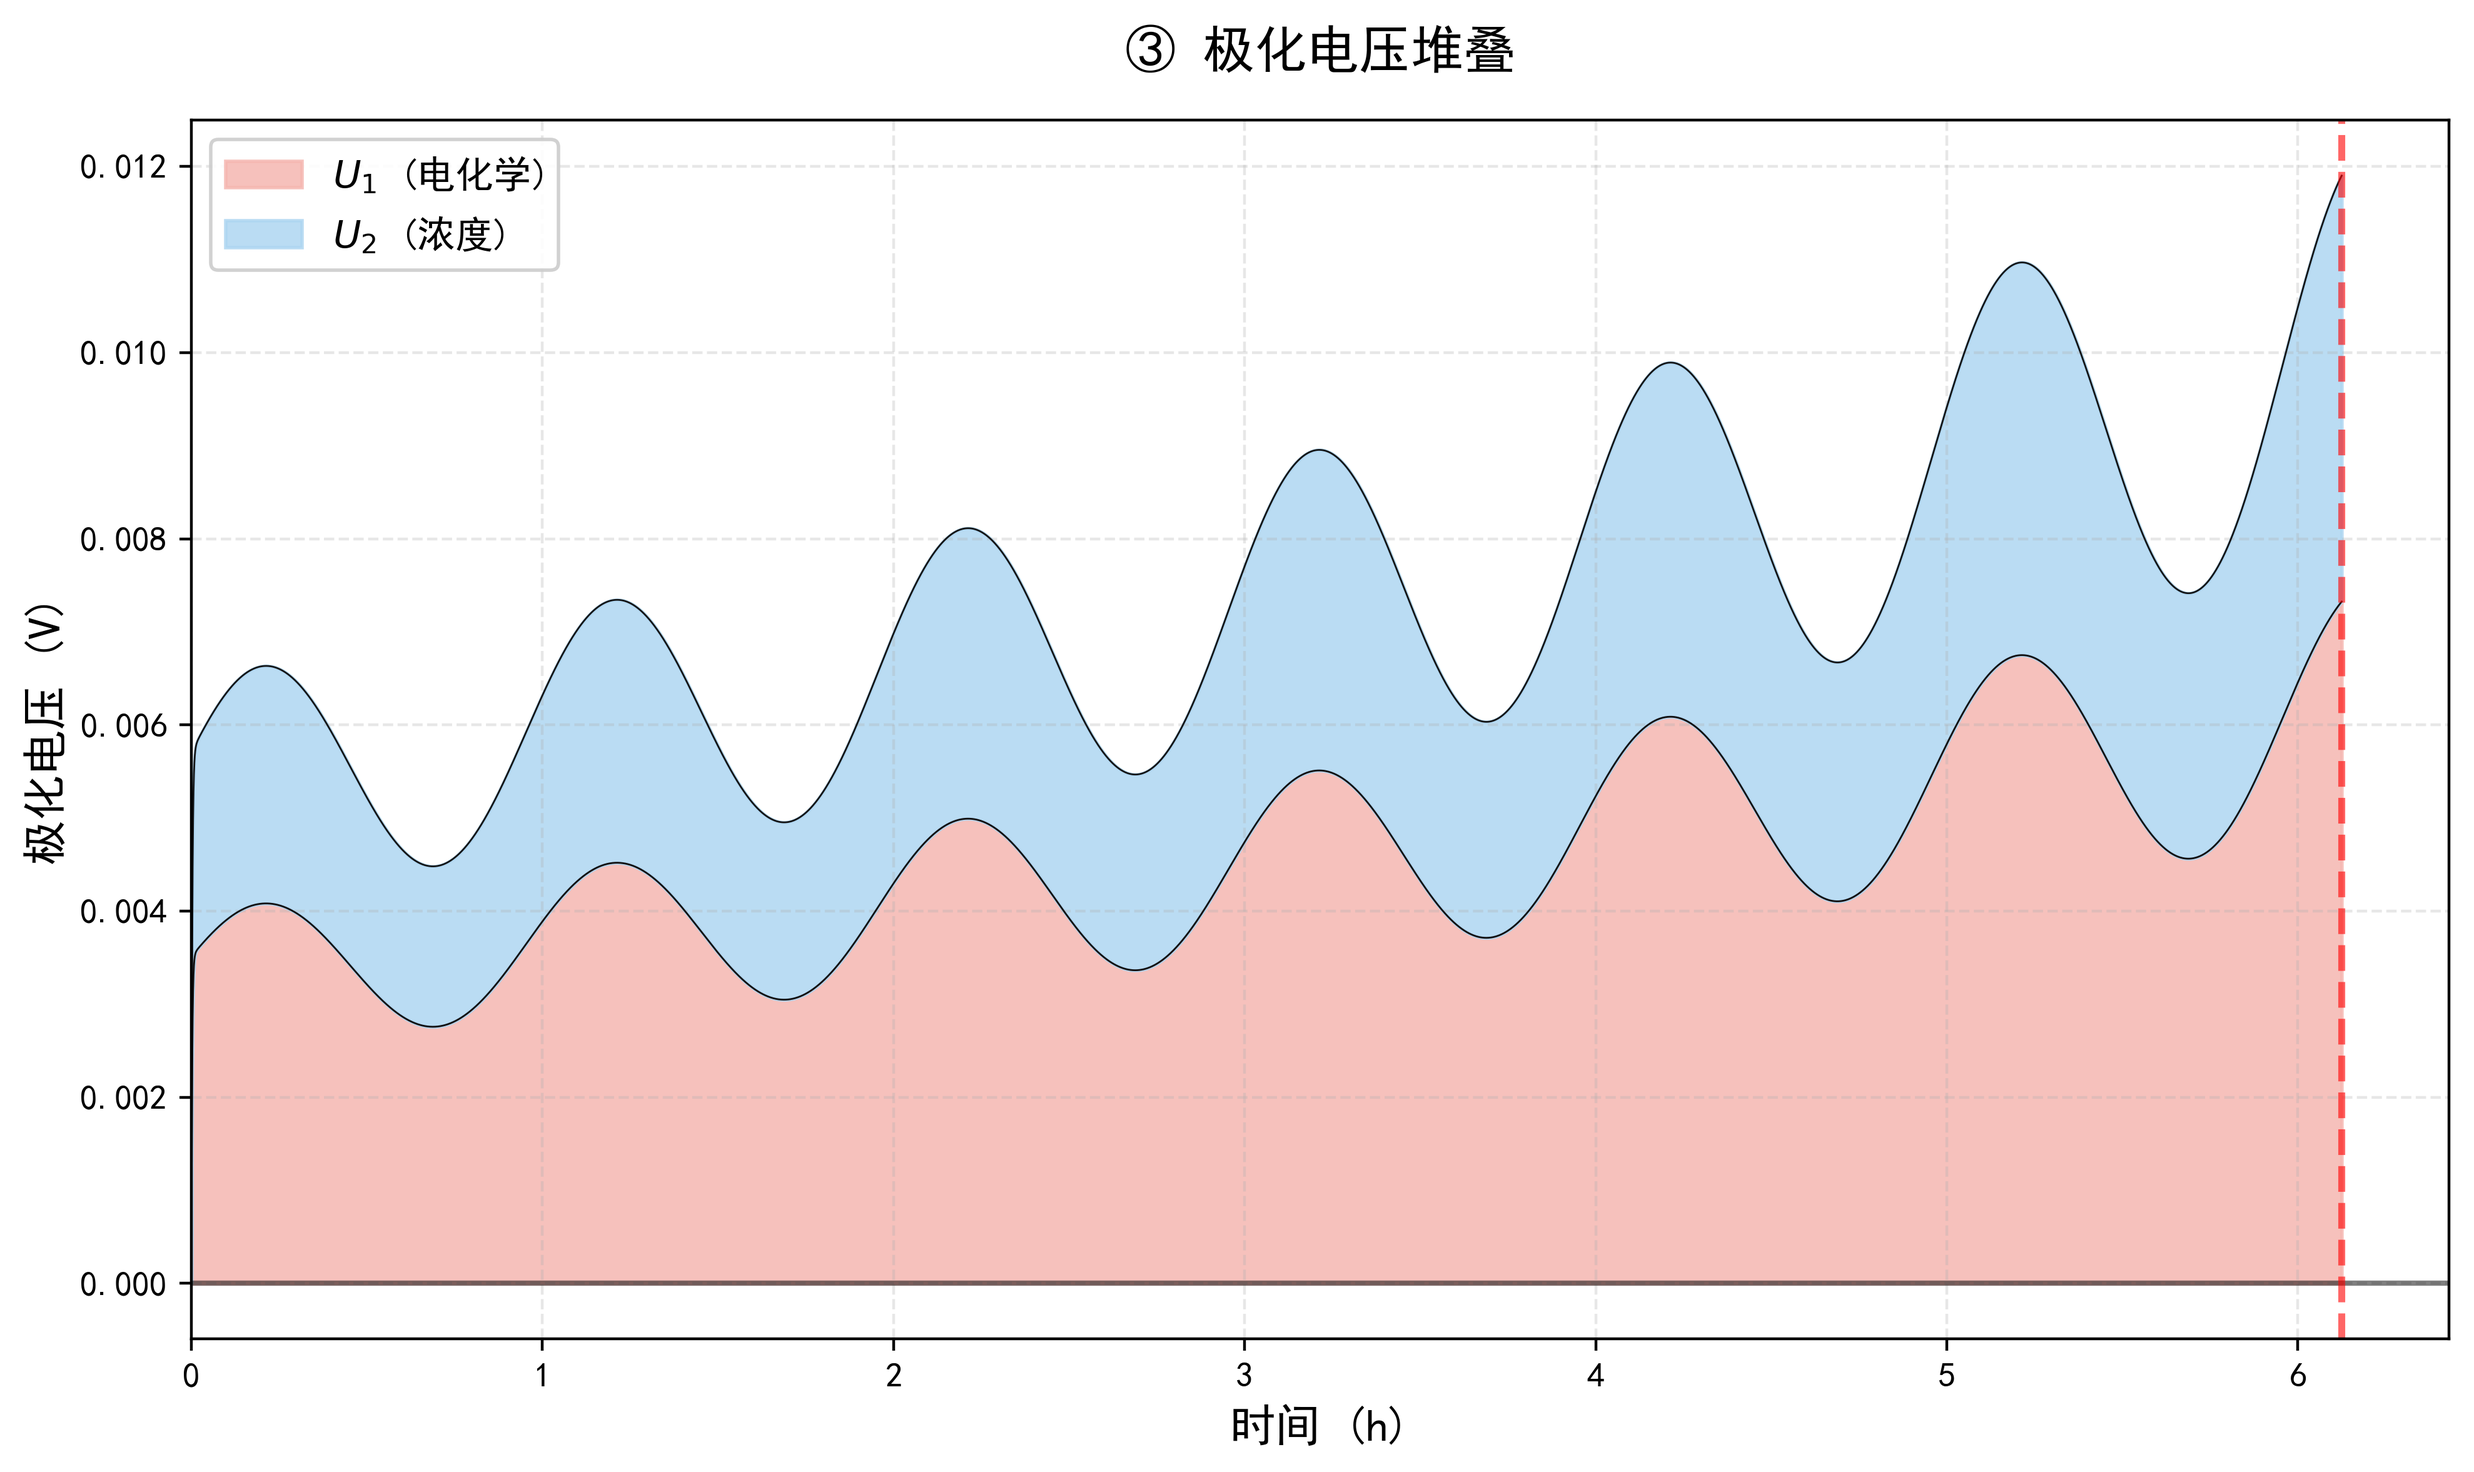
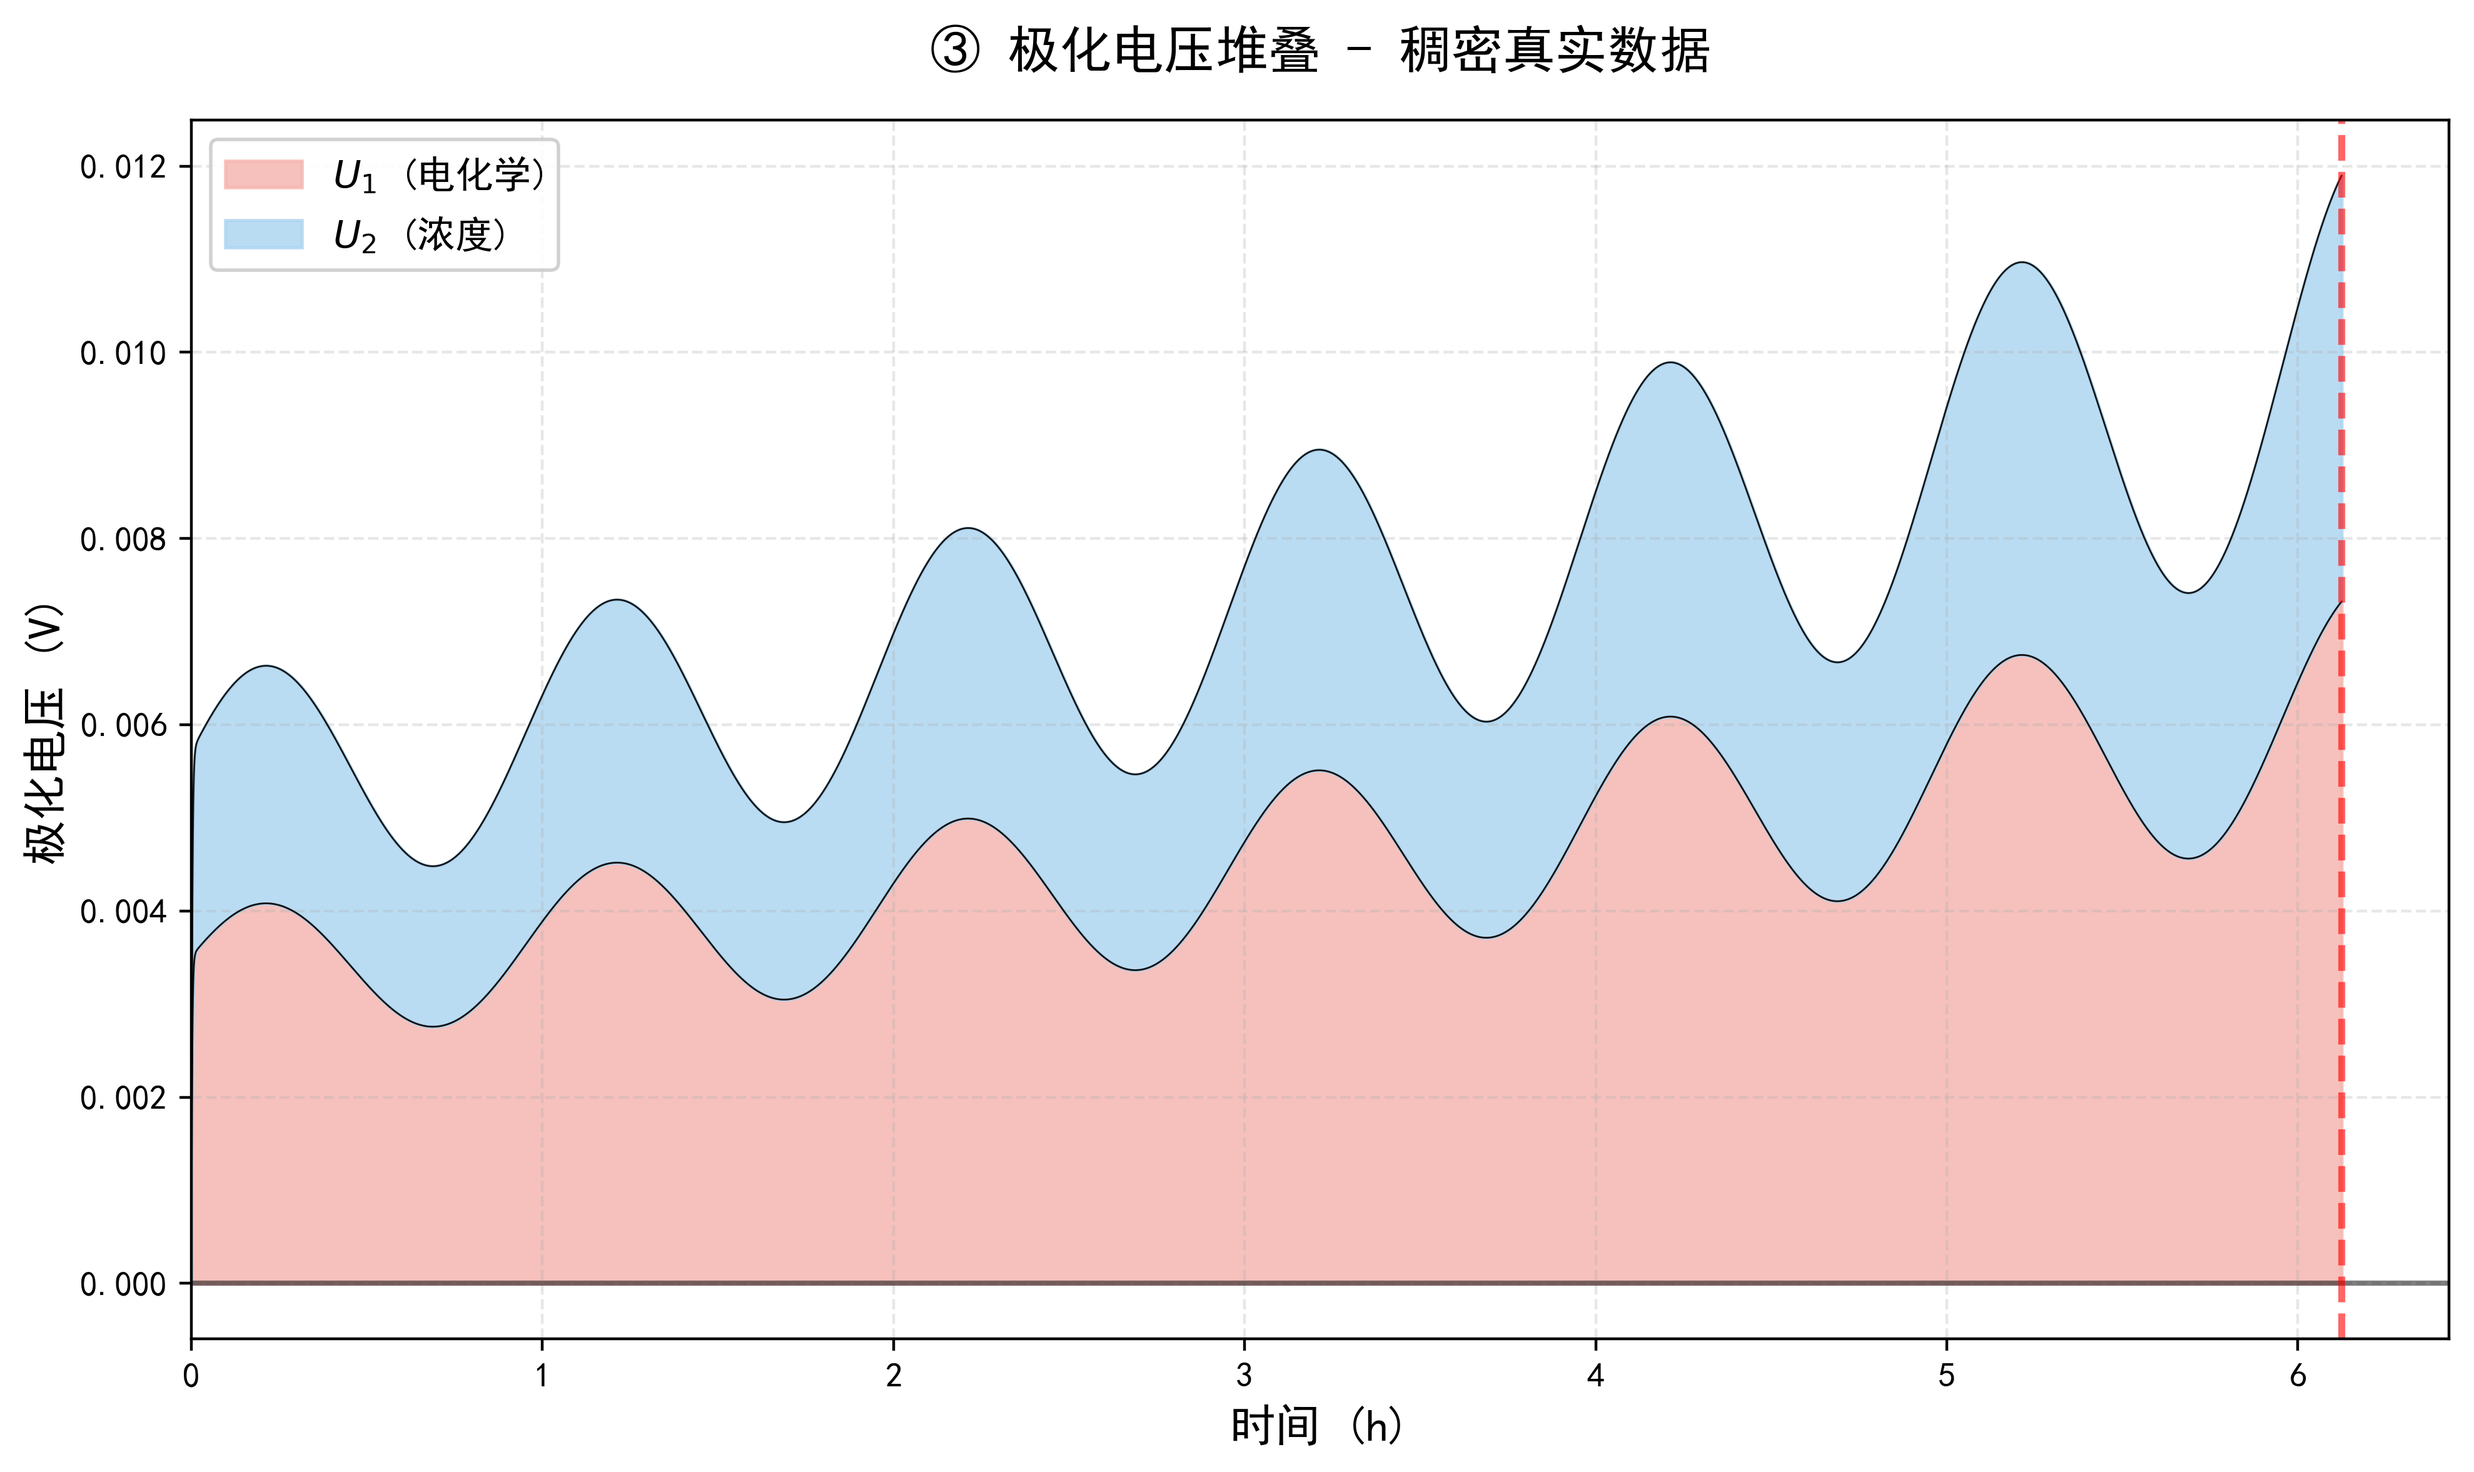
modify

Changed region(s): [[0.3731, 0.0, 0.684, 0.062]]

diff --git a/问题1/video_full_analysis.py b/问题1/video_full_analysis.py
@@ -33,49 +33,31 @@ def simulate_full_video_discharge():
     print(f"标称电压：{model.V_nom} V")
     print("="*70)
     
-    # 运行仿真（启用密集输出以便插值）
-    sol = model.simulate(t_span, y0, scenario_video_streaming, max_step=60)
+    # 运行仿真（使用小步长获取稠密的真实数据点）
+    # 将max_step从60秒降到5秒，获得更多真实计算点
+    sol = model.simulate(t_span, y0, scenario_video_streaming, max_step=5)
     
     # 找到放空时间
     t_empty_s = model.find_empty_time(sol)
     t_empty_h = t_empty_s / 3600
     
+    # 截取到放空时刻的原始数据
+    mask = sol.t <= t_empty_s
+    t_data = sol.t[mask]
+    
     print(f"\n✓ 仿真完成")
     print(f"  放电时长：{t_empty_h:.2f} 小时")
-    print(f"  原始仿真步数：{len(sol.t)} 步")
+    print(f"  原始仿真步数：{len(t_data)} 步（稠密真实点，max_step=5s）")
+    print(f"  数据点密度：平均每分钟 {len(t_data)/(t_empty_h*60):.1f} 个点")
     
-    # ========== 插值增加绘图点数 ==========
-    from scipy.interpolate import interp1d
-    
-    # 原始数据（截取到放空时刻）
-    mask = sol.t <= t_empty_s
-    t_original = sol.t[mask]
-    
-    # 创建密集时间网格（增加到5000个点，可根据需要调整）
-    n_dense_points = 5000
-    t_dense = np.linspace(0, t_empty_s, n_dense_points)
-    
-    # 对各个状态变量进行插值
-    f_soc = interp1d(t_original, sol.y[0, mask], kind='cubic', fill_value='extrapolate')
-    f_T = interp1d(t_original, sol.y[1, mask], kind='cubic', fill_value='extrapolate')
-    f_U1 = interp1d(t_original, sol.y[2, mask], kind='cubic', fill_value='extrapolate')
-    f_U2 = interp1d(t_original, sol.y[3, mask], kind='cubic', fill_value='extrapolate')
-    
-    soc_dense = f_soc(t_dense)
-    T_dense = f_T(t_dense)
-    U1_dense = f_U1(t_dense)
-    U2_dense = f_U2(t_dense)
-    
-    print(f"  插值后绘图点数：{n_dense_points} 步（增加 {n_dense_points/len(t_original):.1f}x）")
-    
-    # 提取数据（使用插值后的密集数据）
+    # 直接使用原始求解数据（不插值，保留真实波动和陡峭变化）
     data = {
-        't_s': t_dense,
-        't_h': t_dense / 3600,
-        'SOC': soc_dense,
-        'T_batt': T_dense,
-        'U1': U1_dense,
-        'U2': U2_dense,
+        't_s': t_data,
+        't_h': t_data / 3600,
+        'SOC': sol.y[0, mask],
+        'T_batt': sol.y[1, mask],
+        'U1': sol.y[2, mask],
+        'U2': sol.y[3, mask],
         't_empty_h': t_empty_h
     }
     
@@ -119,12 +101,12 @@ def plot_individual_charts(model, data):
     
     # ========== 图1: SOC荷电状态 ==========
     fig1, ax1 = plt.subplots(figsize=(10, 6))
-    ax1.plot(t_h, data['SOC']*100, color='#2E86C1', linewidth=2.5)
+    ax1.plot(t_h, data['SOC']*100, color='#2E86C1', linewidth=0.8)
     ax1.fill_between(t_h, 0, data['SOC']*100, color='#2E86C1', alpha=0.2)
     ax1.axvline(t_empty, color='red', linestyle='--', alpha=0.6, linewidth=2)
     ax1.set_xlabel('时间 (h)', fontweight='bold', fontsize=13)
     ax1.set_ylabel('SOC (%)', fontweight='bold', fontsize=13)
-    ax1.set_title('① 荷电状态 (SOC)', fontsize=15, fontweight='bold', pad=15)
+    ax1.set_title('① 荷电状态 (SOC) - 稠密真实数据', fontsize=15, fontweight='bold', pad=15)
     ax1.grid(True, alpha=0.3, linestyle='--')
     ax1.set_xlim([0, t_empty*1.05])
     ax1.set_ylim([0, 105])
@@ -144,7 +126,7 @@ def plot_individual_charts(model, data):
     ax2.axvline(t_empty, color='red', linestyle='--', alpha=0.6, linewidth=2)
     ax2.set_xlabel('时间 (h)', fontweight='bold', fontsize=13)
     ax2.set_ylabel('极化电压 (V)', fontweight='bold', fontsize=13)
-    ax2.set_title('③ 极化电压堆叠', fontsize=15, fontweight='bold', pad=15)
+    ax2.set_title('③ 极化电压堆叠 - 稠密真实数据', fontsize=15, fontweight='bold', pad=15)
     ax2.legend(loc='best', fontsize=11, framealpha=0.9)
     ax2.grid(True, alpha=0.3, linestyle='--')
     ax2.set_xlim([0, t_empty*1.05])
@@ -157,20 +139,20 @@ def plot_individual_charts(model, data):
     fig3, ax3 = plt.subplots(figsize=(10, 6))
     
     # 左轴：内阻
-    ax3.plot(t_h, data['R0']*1000, color='#E74C3C', linewidth=2.5, label='$R_0$ (欧姆)')
-    ax3.plot(t_h, data['R1']*1000, color='#F39C12', linewidth=2.5, label='$R_1$ (电化学)', linestyle='--')
-    ax3.plot(t_h, data['R2']*1000, color='#9B59B6', linewidth=2.5, label='$R_2$ (浓度)', linestyle='--')
+    ax3.plot(t_h, data['R0']*1000, color='#E74C3C', linewidth=0.8, label='$R_0$ (欧姆)')
+    ax3.plot(t_h, data['R1']*1000, color='#F39C12', linewidth=0.8, label='$R_1$ (电化学)', linestyle='--')
+    ax3.plot(t_h, data['R2']*1000, color='#9B59B6', linewidth=0.8, label='$R_2$ (浓度)', linestyle='--')
     ax3.axvline(t_empty, color='red', linestyle='--', alpha=0.6, linewidth=2)
     ax3.set_xlabel('时间 (h)', fontweight='bold', fontsize=13)
     ax3.set_ylabel('内阻 (mΩ)', fontweight='bold', fontsize=13, color="#110F0F")
     ax3.tick_params(axis='y', labelcolor="#131111")
-    ax3.set_title('④ 内阻与温度变化', fontsize=15, fontweight='bold', pad=15)
+    ax3.set_title('④ 内阻与温度变化 - 稠密真实数据', fontsize=15, fontweight='bold', pad=15)
     ax3.grid(True, alpha=0.3, linestyle='--')
     ax3.set_xlim([0, t_empty*1.05])
     
     # 右轴：温度
     ax3_temp = ax3.twinx()
-    ax3_temp.plot(t_h, data['T_celsius'], color="#3B857C", linewidth=2.5, label='电池温度')
+    ax3_temp.plot(t_h, data['T_celsius'], color="#3B857C", linewidth=0.8, label='电池温度')
     ax3_temp.axhline(25, color='green', linestyle=':', linewidth=2, alpha=0.6, label='环境温度')
     ax3_temp.set_ylabel('温度 (°C)', fontweight='bold', fontsize=13, color="#833E85")
     ax3_temp.tick_params(axis='y', labelcolor="#852F9D")
@@ -187,12 +169,12 @@ def plot_individual_charts(model, data):
     
     # ========== 图4: 放电电流 ==========
     fig4, ax4 = plt.subplots(figsize=(10, 6))
-    ax4.plot(t_h, data['I_A'], color="#1B1F22", linewidth=1.5)
+    ax4.plot(t_h, data['I_A'], color="#1B1F22", linewidth=0.6)
     ax4.fill_between(t_h, 0, data['I_A'], color='#E74C3C', alpha=0.2)
     ax4.axvline(t_empty, color='red', linestyle='--', alpha=0.6, linewidth=2)
     ax4.set_xlabel('时间 (h)', fontweight='bold', fontsize=13)
     ax4.set_ylabel('电流 (A)', fontweight='bold', fontsize=13)
-    ax4.set_title('⑤ 放电电流', fontsize=15, fontweight='bold', pad=15)
+    ax4.set_title('⑤ 放电电流 - 稠密真实数据(含陡峭变化)', fontsize=15, fontweight='bold', pad=15)
     ax4.grid(True, alpha=0.3, linestyle='--')
     ax4.set_xlim([0, t_empty*1.05])
     plt.tight_layout()

diff --git a/scenery.py b/scenery.py
@@ -2,28 +2,46 @@
 import numpy as np
 
 def scenario_video_streaming(t):
-    """视频流场景 - 使用平滑的周期性波动模拟真实使用"""
+    """视频流场景 - 使用阶跃式突变模拟真实使用变化"""
     # 基础参数
     base_brightness = 0.7
     base_cpu = 0.3
     base_data_rate = 2.0
     
-    # 使用正弦函数模拟平滑的周期性变化
-    # 周期约1小时,模拟用户注意力波动和内容复杂度变化
-    period = 3600  # 1小时周期
-    phase = 2 * np.pi * t / period
+    # 使用多个阶跃变化模拟真实使用场景
+    # 周期300秒(5分钟)，模拟用户操作、广告、切换视频等突变
+    cycle = t % 300
     
-    # 亮度变化: 0.5-0.9之间平滑波动
-    brightness = base_brightness + 0.2 * np.sin(phase)
-    brightness = np.clip(brightness, 0.5, 0.9)
-    
-    # CPU使用率: 0.2-0.4之间波动(视频解码负载变化)
-    cpu_usage = base_cpu + 0.1 * np.sin(phase + np.pi/4)
-    cpu_usage = np.clip(cpu_usage, 0.2, 0.4)
-    
-    # 数据率: 1.5-2.5 Mbps之间波动(码率自适应)
-    data_rate = base_data_rate + 0.5 * np.sin(phase + np.pi/2)
-    data_rate = np.clip(data_rate, 1.5, 2.5)
+    if cycle < 60:
+        # 正常观看
+        brightness = 0.7
+        cpu_usage = 0.3
+        data_rate = 2.0
+    elif cycle < 90:
+        # 广告时段（亮度高、CPU低）
+        brightness = 0.9
+        cpu_usage = 0.2
+        data_rate = 1.5
+    elif cycle < 150:
+        # 高清片段（CPU和数据率升高）
+        brightness = 0.7
+        cpu_usage = 0.5
+        data_rate = 3.0
+    elif cycle < 180:
+        # 暂停/菜单操作（低功耗）
+        brightness = 0.5
+        cpu_usage = 0.15
+        data_rate = 0.5
+    elif cycle < 240:
+        # 恢复观看
+        brightness = 0.7
+        cpu_usage = 0.35
+        data_rate = 2.5
+    else:
+        # 缓冲/加载（高数据率）
+        brightness = 0.6
+        cpu_usage = 0.4
+        data_rate = 4.0
     
     scenario = {
         'screen_on': True,
